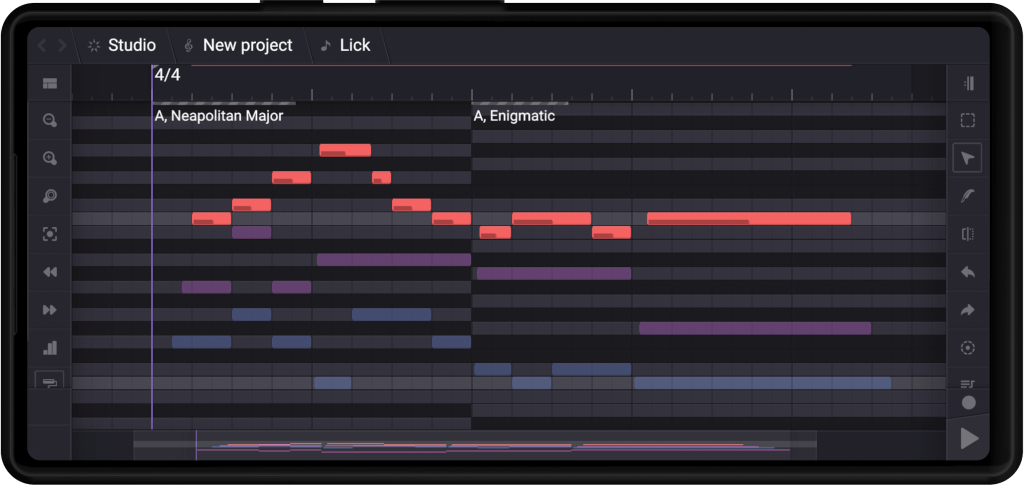
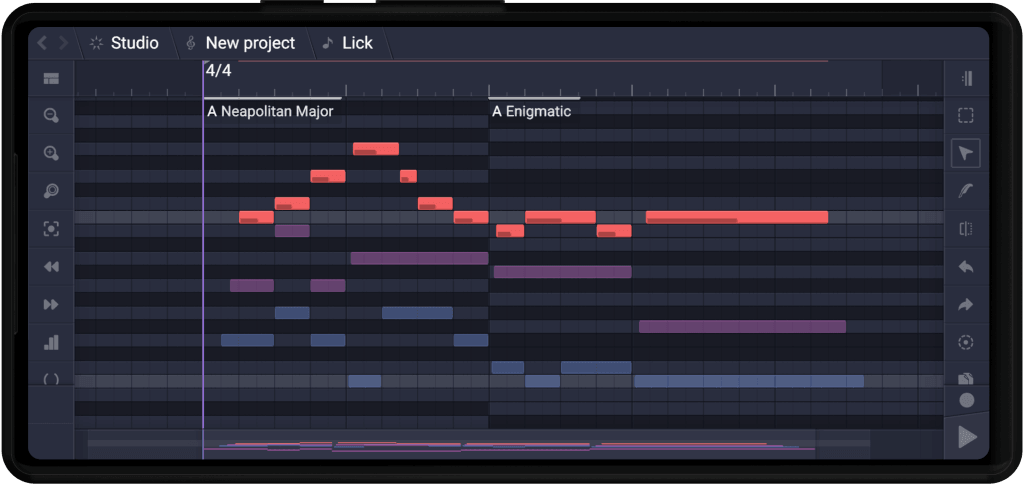
Docs housekeeping

diff --git a/Docs/configs.md b/Docs/configs.md
@@ -21,7 +21,7 @@ This config lists all chords displayed in the [chord tool](tips-and-tricks.md#ch
 
 ### Built-in temperaments
 
-Temperaments define how highlighting works in the piano roll, including octave size and key names, and which scales are available to choose from. Temperament description also provides a chromatic approximation, which is used when [converting a piece](getting-microtonal.md#switching-temperaments) from one temperament to another:
+Temperaments define how highlighting works in the piano roll, including octave size and key names, and which scales are available to choose from. Temperament description also provides a chromatic approximation, which is used when [converting a piece](microtonal-setup.md#switching-temperaments) from one temperament to another:
 
 ```json
 {{#include ../Resources/temperaments.json}}
@@ -41,7 +41,7 @@ Scales listed here are available to choose from in the key signature dialog, and
 
 Meters listed here are available to choose from in the time signature dialog.
 
-Each meter comes with a [metronome](getting-polymetric.md#metronome), which is described using ["Oona Pana"](https://medium.com/@theBobavich/introducing-a-new-way-to-count-music-59b69158001f) scheme, suggested by Rods Bobavich - a simplified, but handy way to describe musical rhythms, which is also easy to read and edit manually.
+Each meter comes with a [metronome](polymetric-setup.md#metronome), which is described using ["Oona Pana"](https://medium.com/@theBobavich/introducing-a-new-way-to-count-music-59b69158001f) scheme, suggested by Rods Bobavich - a simplified, but handy way to describe musical rhythms, which is also easy to read and edit manually.
 
 Metronome schemes listed here are just the default ones, and they can be edited for each time signature separately in the time signature dialog.
 
@@ -182,7 +182,7 @@ What it means:
  * `period` - key names separated by whitespace; the number of keys defines the octave size,
  * `periodRange` - the pitch range that makes up a period, defaults 2.0 representing one octave; for nonoctave tunings use 3.0 for the duodecime used in the Bohlen-Pierce tuning or 1.5 for the pure fifth, used in the Carlos Alpha, Beta and Gamma tunings; for backward compatibility, if this parameter isn't given, Helio assumes one octave; this parameter only affects the built-in instrument at the moment,
  * `highlighting` - the default highlighting scheme in the piano roll, i.e. which rows are highlighted as "white keys" by default,
- * `chromaticMap` - this is used to [convert](getting-microtonal.md#switching-temperaments) temperaments; here, since 24-EDO just divides the 12-tone semitone in two, the chromatic map just jumps over quarter-tones.
+ * `chromaticMap` - this is used to [convert](microtonal-setup.md#switching-temperaments) temperaments; here, since 24-EDO just divides the 12-tone semitone in two, the chromatic map just jumps over quarter-tones.
 
 You might want to add some scales for it, for example:
 
@@ -227,8 +227,15 @@ To add your theme to the built-in themes, put a `colourSchemes.json` file in you
           "bar": "271b1923",
           "row": "ff1b1923",
           "timeline": "ff2d2d30",
-          "iconBase": "27ffffff",
-          "iconShadow": "ff000000"
+          "iconBase": "4fffffff",
+          "iconShadow": "ff000000",
+          "scriptText": "ff959dcb",
+          "scriptKeyword": "ffe06c75",
+          "scriptFunction": "ff61aeee",
+          "scriptLiteral": "fff78c6b",
+          "scriptBracket": "ff959dcb",
+          "scriptError": "fff92672",
+          "scriptComment": "88959dcb"
         }
       }
     ]

diff --git a/Docs/getting-started.md b/Docs/getting-started.md
@@ -132,7 +132,7 @@ A few built-in instruments are created automatically and cannot be removed:
 
 * the "Helio Default" instrument is a simple sine wave voice that supports all built-in temperaments with no setup; aside from being the default instrument, it is used to preview scales in the [key signature](#key-signatures) dialog,
 * the "MIDI Output" instrument generates no sound but sends all events, except meta-events, to the MIDI output specified on the settings page,
-* the "Metronome" instrument gives you the option to select custom [metronome](getting-polymetric.md#metronome) samples.
+* the "Metronome" instrument gives you the option to select custom [metronome](polymetric-setup.md#metronome) samples.
 
 Apart from those, Helio includes the built-in SoundFont player instrument which can be found in the plugins list after scanning. It can load SF2 format and SF3 format with OGG/FLAC sample compression and supports microtonal temperaments. On mobile platforms it will be automatically added to the orchestra pit on the first launch.
 
@@ -172,7 +172,7 @@ Time signatures simply define the way the vertical grid lines are aligned in the
 
 Right-click on the time signature selects all notes of the active track up to the next time signature.
 
-If you need to manage complex rhythms, see [this page](getting-polymetric.md).
+If you need to manage complex rhythms, see [this page](polymetric-setup.md).
 
 #### Key signatures
 
@@ -186,7 +186,7 @@ A key signature is a combination of the root key and the scale:
 
 ![key-signature-dialog]
 
-*Tip: right-click on any key button to preview it.*
+*Tip: right-click on any key button to preview the key.*
 
 The root key selection allows you to pick one of the key's enharmonic equivalents, which only affects [note naming](tips-and-tricks.md#note-name-guides) to provide better compatibility with traditional notation language.
 
@@ -376,7 +376,7 @@ The right side shows the tree of all revisions that you have saved. Note a coupl
 [timeline-key-signatures]: images/timeline-key-signatures.png "Timeline: key signature events"
 [timeline-time-signatures]: images/timeline-time-signatures.png "Timeline: time signature events"
 [timeline-reprise]: images/timeline-reprise.png "Timeline: repeat signs"
-[key-signature-dialog]: images/key-signature-dialog.png "Key signature dialog"
+[key-signature-dialog]: images/scales-highlighting.png "Key signature dialog"
 
 [sidebar-left-1]: images/sidebar-l1.png "Navigation sidebar 1"
 [sidebar-left-2]: images/sidebar-l2.png "Navigation sidebar 2"

diff --git a/README.md b/README.md
@@ -6,19 +6,13 @@
 
 ![On tablet (iPad mini)](Docs/images/screen-v3-ios.png)
 
-## Why another sequencer?
-
-Most of the DAW interfaces often seem overcomplicated, and they only tend to get more and more bloated over time. Many of them are commercial, proprietary-licensed and almost none of them support all major operating systems at the same time.
-
-Helio is an attempt to rethink a music sequencer to create a tool that **feels right**.
-
-It aims to be a modern music creation software, featuring linear-based/pattern-based sequencer with clean UI, integrated version control, microtonal temperaments support, small portable builds and more; mainly targeted at hobbyist composers, game developers and indie artists. Check out this [YouTube channel](https://www.youtube.com/channel/UCO3K8iCd1k2FTqSocoE-WXw/) for some showcases.
+This project is an attempt to rethink a music sequencer: prefer uncluttered, distraction-free UI, aim for clear over clever, and encourage experimentation in underexplored areas in music, like exotic scales and microtonal temperaments.
 
 ## Getting started
 
 The latest builds can be found at [helio.fm](https://helio.fm).
 
-Check out the documentation to get started: [docs.helio.fm](https://docs.helio.fm).
+Check out [the documentation](https://docs.helio.fm) to get started, or see this [YouTube channel](https://www.youtube.com/channel/UCO3K8iCd1k2FTqSocoE-WXw/) for some showcases.
 
 ## Building
 
@@ -48,6 +42,8 @@ App icon by Valery Davletbaev, distributed under [CC-BY](https://creativecommons
 Built-in [metronome sounds](https://stash.reaper.fm/40824/Metronomes.zip) are recorded by Ludwig Peter Müller, [CC0](https://creativecommons.org/publicdomain/zero/1.0/).
 
 The built-in SoundFont player instument is based on [SFZero](https://github.com/stevefolta/SFZero), written by Steve Folta and [extended](https://github.com/cognitone/SFZeroMT) by Leo Olivers and Cognitone.
+
+The built-in scripting language is based on a [Lisp interpreter](https://github.com/adam-mcdaniel/wisp) by Adam McDaniel.
 
 All documentation, translations and logotypes are distributed under [CC-BY](https://creativecommons.org/licenses/by/4.0/).
 

diff --git a/Docs/tips-and-tricks.md b/Docs/tips-and-tricks.md
@@ -22,7 +22,7 @@ These are the clipping and over-saturation warning markers:
 
 One quick way to switch between the current editing mode and the canvas panning mode is holding the `Space` key:
 
-![space-drag]
+![space-dragging]
 
 Dragging the canvas with the right mouse button does the same thing.
 
@@ -34,17 +34,19 @@ Hold the `Space` key, then click-and-drag over the timeline to measure time betw
 
 ![time-measure-tool]
 
-### Sound probe tool
+#### Sound probe tool
 
-Holding `Space` and clicking on the timeline is what I call a "sound probe", and it's supposed to give you an idea of what notes are playing at any given time:
-
-![sound-probe]
+Holding `Space` and clicking on the timeline is what I call a "sound probe", and it's supposed to give you an idea of what notes are playing at any given time.
 
 ### Range selection
 
+Click-and-drag on the timeline while holding `Shift` to select a group of key signatures (on mobile platforms just use the selection tool on the timeline):
+
+![key-signatures-selection]
+
 Click-and-drag on the timeline while holding `Control` or `Command` to select all notes or clips in a time range:
 
-![range-select]
+![range-selection]
 
 ### Freeform selection
 
@@ -158,10 +160,10 @@ Track grouping also affects MIDI export: all segments on a single row are export
 #### See also: [piano roll hotkeys](hotkeys.md#piano-roll), [pattern roll hotkeys](hotkeys.md#pattern-roll), [refactoring options](refactoring.md)
 
 
-[space-drag]: images/space-drag.png "Dragging the canvas"
-[time-measure-tool]: images/time-measure.png "Time measure tool"
-[sound-probe]: images/sound-probe.png "Sound probe tool"
-[range-select]: images/range-select.png "Range selection"
+[space-dragging]: images/space-dragging.png "Dragging the canvas"
+[time-measure-tool]: images/time-measure-tool.png "Time measure tool"
+[range-selection]: images/range-selection.png "Range selection"
+[key-signatures-selection]: images/key-signatures-selection.png "Key signatures selection"
 
 [group-resizing]: images/group-resizing.png "Resizing notes with shift"
 [pen-tool-alt]: images/pen-tool-alt.png "Adding notes with shift"

diff --git a/Docs/troubleshooting.md b/Docs/troubleshooting.md
@@ -26,6 +26,10 @@ The iOS file picker will allow you to select either the app's local folder or th
 
 The iCloud folder should only be used for one-time actions like importing/exporting MIDI or rendering WAV/FLAC audio. Due to the iOS security model, the folder will not be accessible across sessions.
 
+## Android issues
+
+On some devices, the app will fail to read SoundFonts from the Downloads folder. The workaround is to keep them in Documents or Music or any public folder or subfolder other than Downloads.
+
 ## Sidebar cut-off
 
 Some mobile devices have a display notch or a frontal camera cutout, partially covering either of the sidebars, depending on which orientation you're using. To workaround this, sidebars allow dragging them sideways a bit:

diff --git a/Docs/microtonal-setup.md b/Docs/microtonal-setup.md
@@ -119,7 +119,7 @@ This feature is enabled by default, but it can be disabled in the audio settings
 ## Examples
 
 This section will describe setting up various microtonal plugins in Helio. For now, it's just a couple of examples, 
-if you managed to make any other plugin work, please [share](https://github.com/helio-fm/helio-sequencer/blob/develop/Docs/getting-microtonal.md) your findings.
+if you managed to make any other plugin work, please [share](https://github.com/helio-fm/helio-sequencer/blob/develop/Docs/microtonal-setup.md) your findings.
 
 ### Pianoteq
 

diff --git a/Docs/SUMMARY.md b/Docs/SUMMARY.md
@@ -3,8 +3,8 @@
   - [Release Notes](changelog.md)
 ---
 - [Getting Started](getting-started.md)
-  - [Microtonal Setup](getting-microtonal.md)
-  - [Polymetric Setup](getting-polymetric.md)
+  - [Microtonal Setup](microtonal-setup.md)
+  - [Polymetric Setup](polymetric-setup.md)
 ---
 - [Tips and Tricks](tips-and-tricks.md)
   - [Refactoring](refactoring.md)
